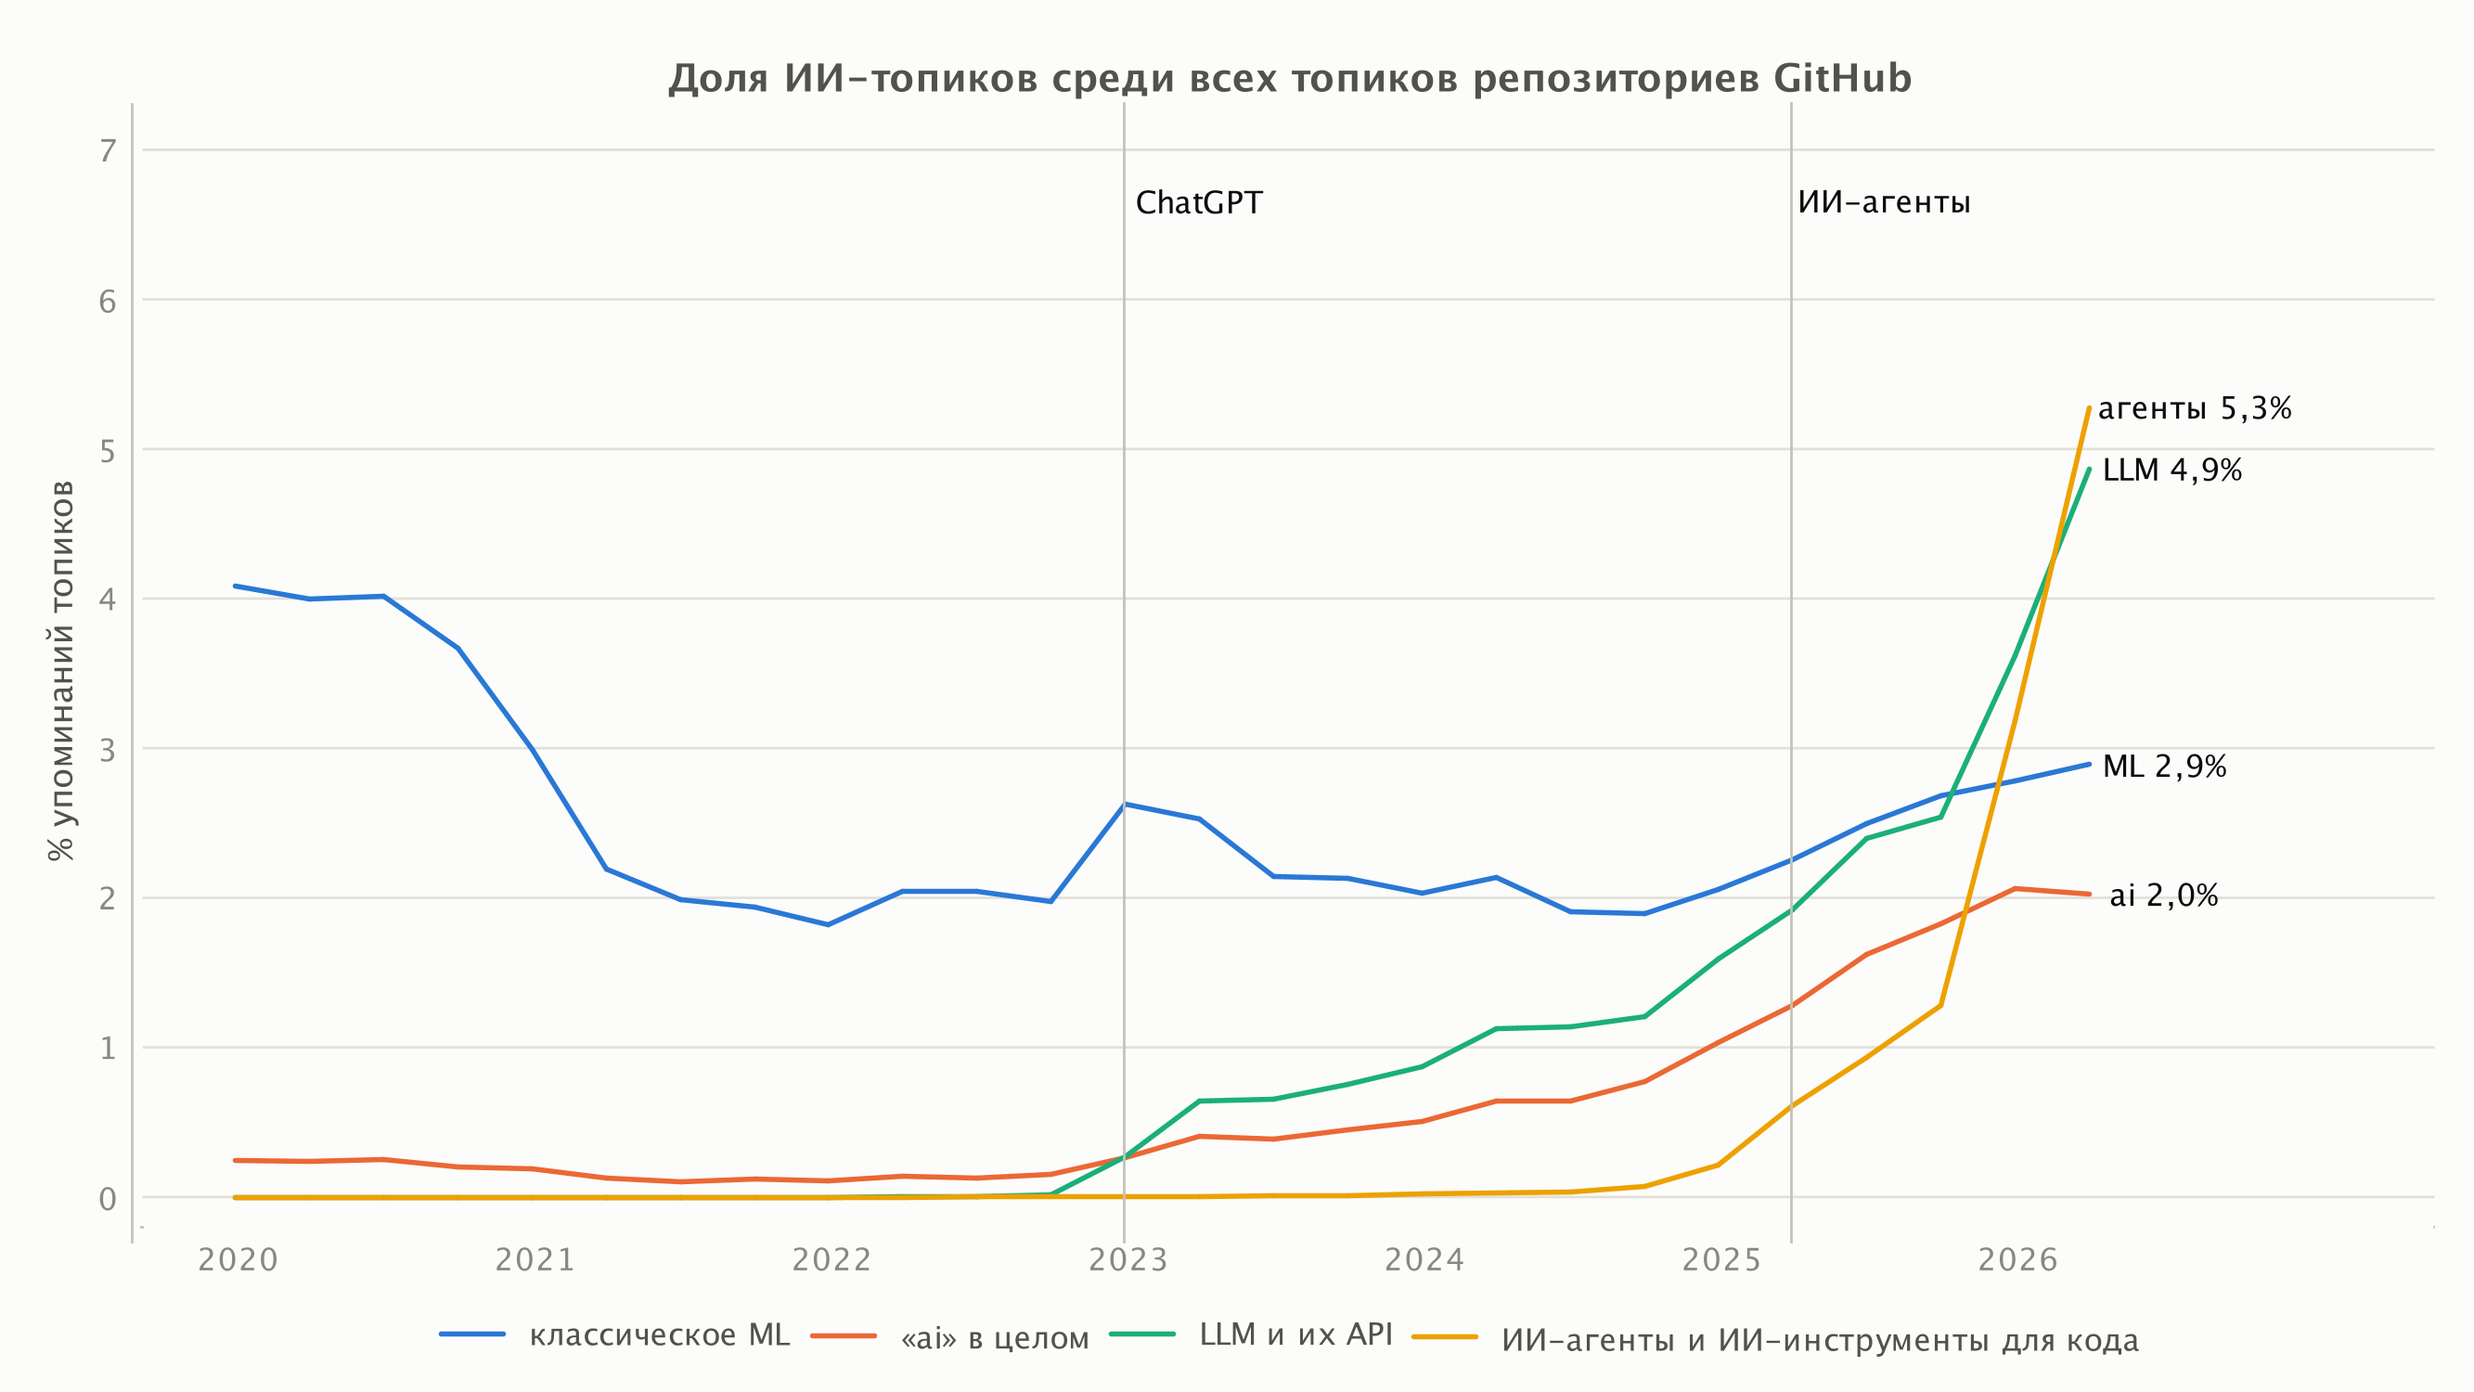
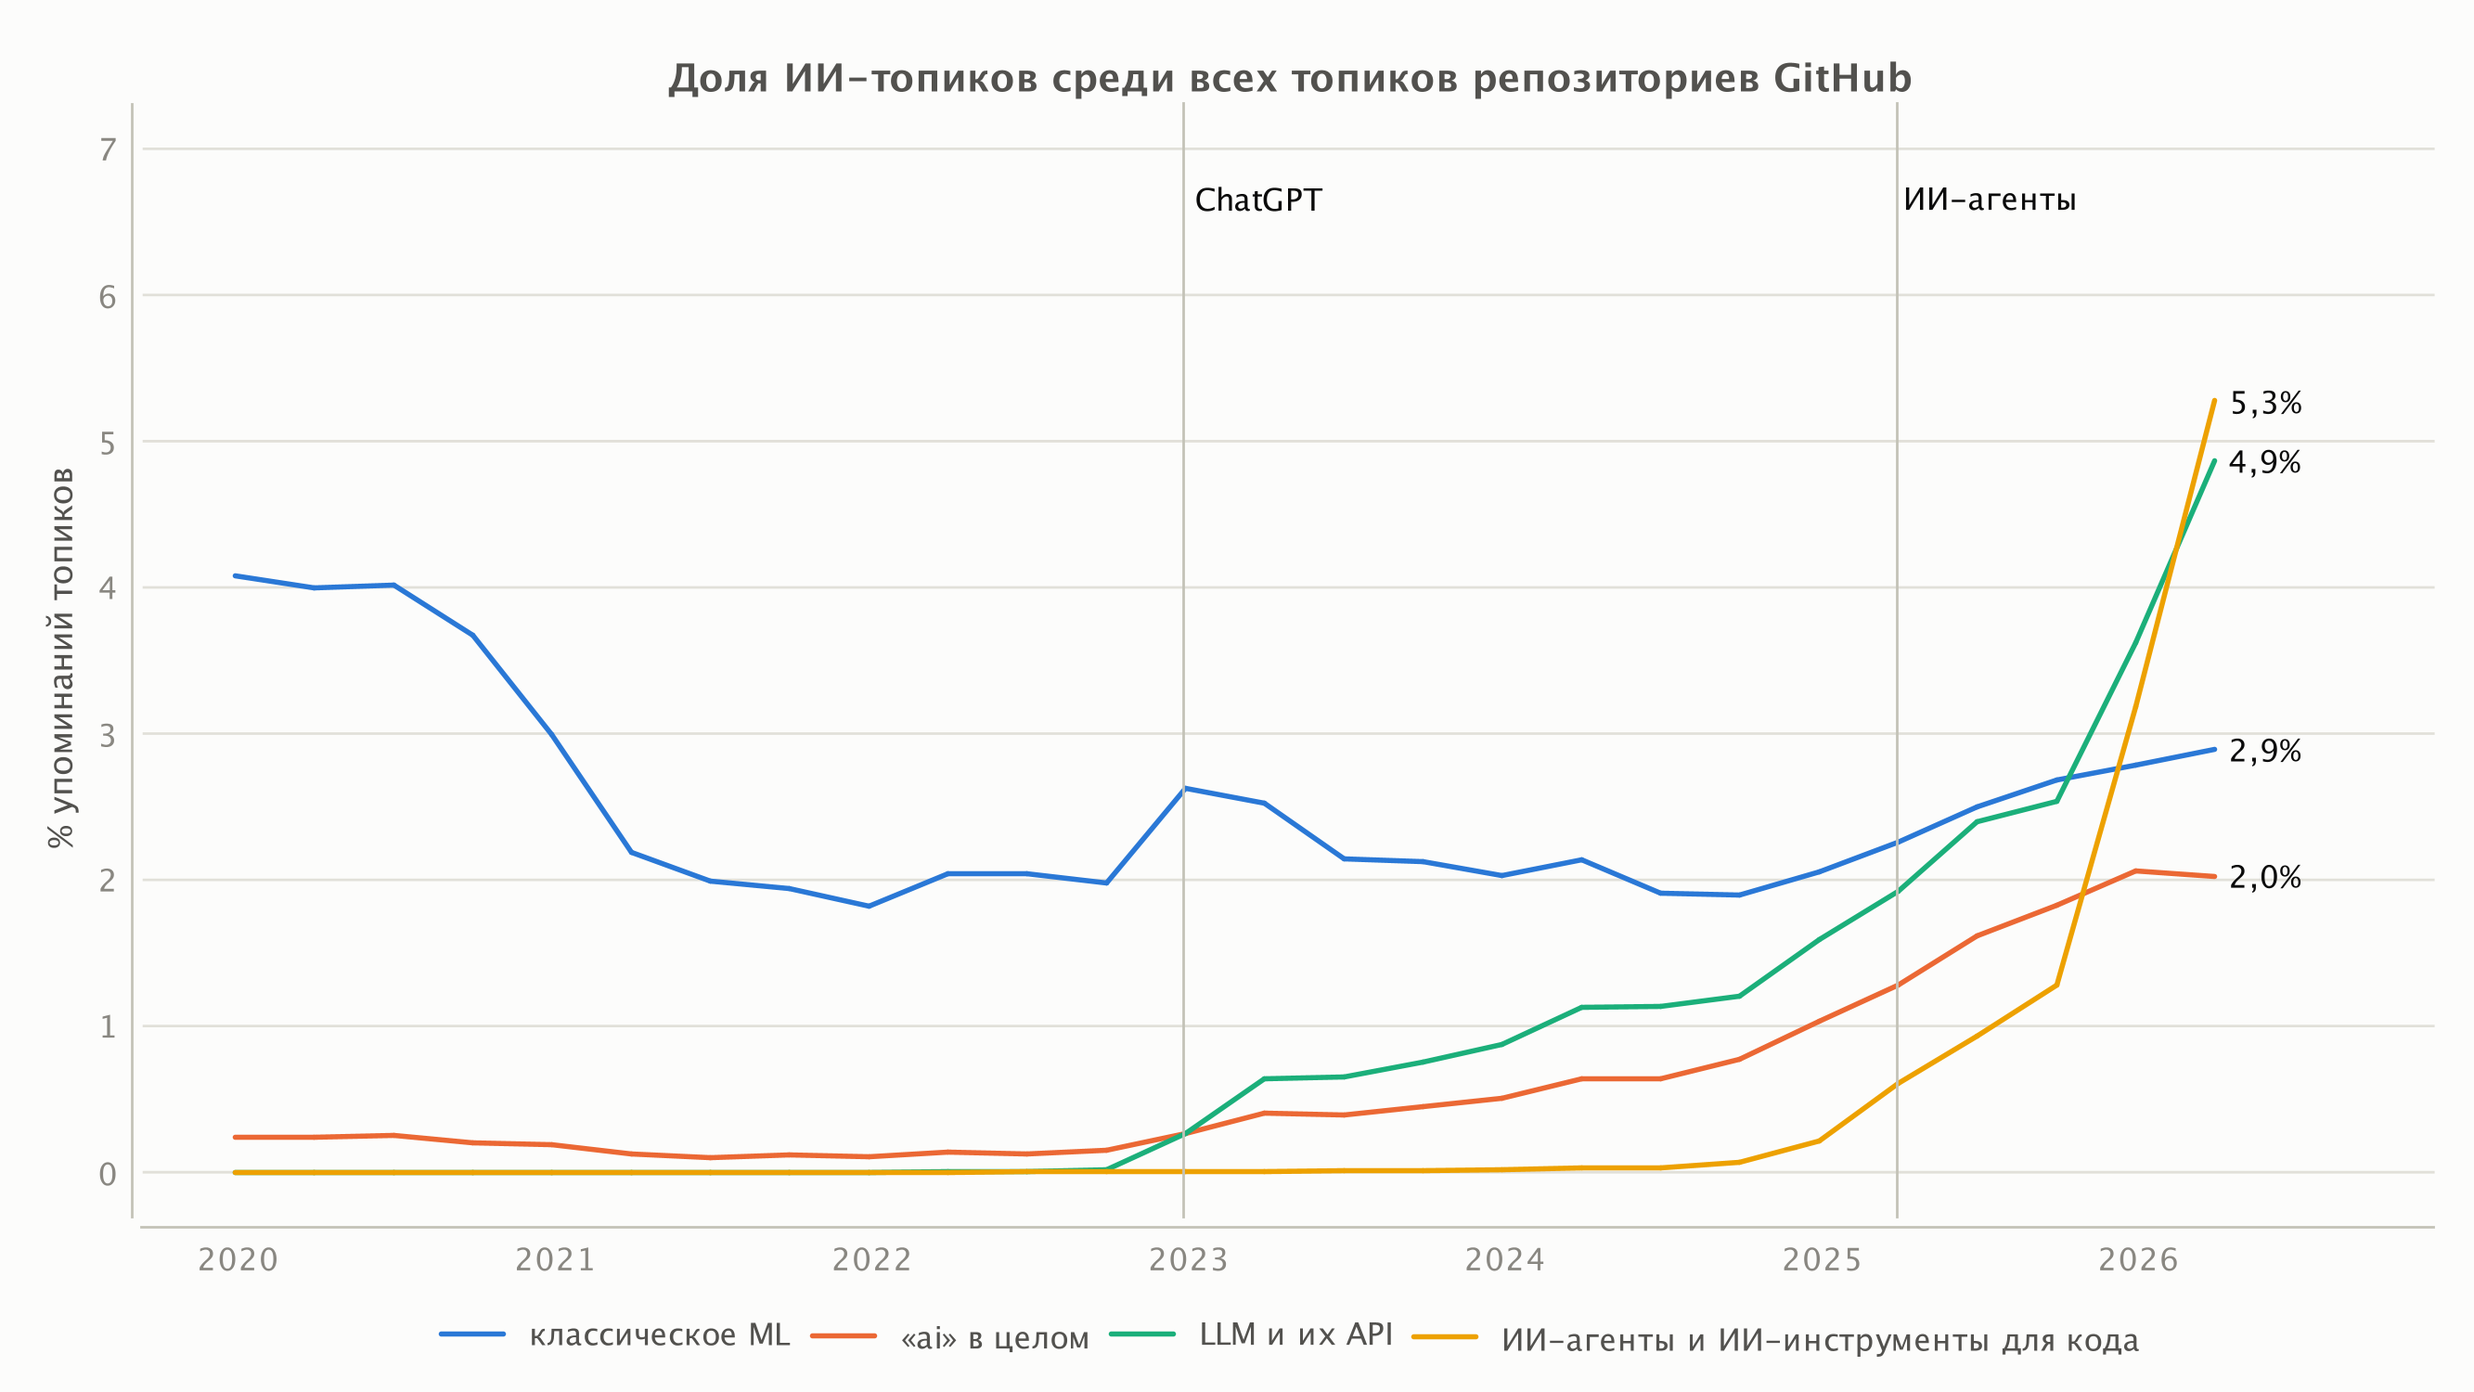
Figures: no custom tick formatter, data-driven scale, net change naming
Review fixes for #25:
- Drop the custom x tick formatter that could make XChart loop forever;
  the axis now ends right after the last quarter, so no empty future year
  is labelled. Line ends carry values, identity stays in the legend.
- The pushes-per-developer scale follows the data instead of a fixed 2.4
  that the next quarterly update would exceed.
- task1_new_developers.png becomes task1_developers_net_change.png,
  titled as net change of developers.
- Event lines use Task1Main's event quarters, the country legend uses
  MIN_COUNTRY_TOPIC_PUSHERS, the by-country title uses the topics' quarter.
- Regions without a Russian name are still drawn and reported instead of
  silently dropped; regions exclude Hong Kong and Singapore (PerCapita).

diff --git a/analytics-java/src/main/java/ru/spbstu/ghanalytics/analytics/task1/Task1Charts.java b/analytics-java/src/main/java/ru/spbstu/ghanalytics/analytics/task1/Task1Charts.java
@@ -17,36 +17,39 @@ import java.util.Locale;
 /** Article figures of task 1, from the tables built by {@link Task1Main}. */
 final class Task1Charts {
 
-    private static final double CHATGPT_X = 2023.0;
-    private static final double CODING_AGENTS_X = 2025.25;
+    private static final double CHATGPT_X = AiActivity.decimalYear(Task1Main.CHATGPT);
+    private static final double CODING_AGENTS_X = AiActivity.decimalYear(Task1Main.CODING_AGENTS);
+    /** Room right of the last quarter for the value labels; small enough that no empty next year gets a tick. */
+    private static final double RIGHT_MARGIN = 0.4;
     private static final double PLOT_WIDTH_PX = 840;
     private static final double CHAR_PX = 6.5;
 
     private Task1Charts() {
     }
 
-    static List<Path> write(Table activity, Table byQuarter, Table byCountry, String lastQuarter, Path dir)
+    /** @param countryQuarter quarter of the by-country topic data */
+    static List<Path> write(Table activity, Table byQuarter, Table byCountry, String countryQuarter, Path dir)
             throws IOException {
         return List.of(
                 Charts.save(aiTopicShare(byQuarter), dir, "task1_ai_topic_share"),
                 Charts.save(pushesPerDeveloper(activity), dir, "task1_pushes_per_developer"),
-                Charts.save(newDevelopers(activity), dir, "task1_new_developers"),
-                Charts.save(aiShareByCountry(byCountry, lastQuarter), dir, "task1_ai_share_by_country"));
+                Charts.save(developersNetChange(activity), dir, "task1_developers_net_change"),
+                Charts.save(aiShareByCountry(byCountry, countryQuarter), dir, "task1_ai_share_by_country"));
     }
 
     /** Quarter as a decimal year: 2023Q1 -> 2023.0, 2025Q2 -> 2025.25. */
     static double x(Row row) {
-        return row.getInt("year") + (row.getInt("quarter") - 1) / 4.0;
+        return AiActivity.decimalYear(AiActivity.quarterLabel(row.getInt("year"), row.getInt("quarter")));
     }
 
     private static XYChart aiTopicShare(Table byQuarter) {
         XYChart chart = Charts.lines("Доля ИИ-топиков среди всех топиков репозиториев GitHub", "", "% упоминаний топиков");
         double[] x = byQuarter.stream().mapToDouble(Task1Charts::x).toArray();
         String[][] groups = {
-                {"classic_ml_share_pct", "классическое ML", "ML"},
-                {"general_ai_share_pct", "«ai» в целом", "ai"},
-                {"llm_share_pct", "LLM и их API", "LLM"},
-                {"agents_share_pct", "ИИ-агенты и ИИ-инструменты для кода", "агенты"}};
+                {"classic_ml_share_pct", "классическое ML"},
+                {"general_ai_share_pct", "«ai» в целом"},
+                {"llm_share_pct", "LLM и их API"},
+                {"agents_share_pct", "ИИ-агенты и ИИ-инструменты для кода"}};
         List<String> labels = new ArrayList<>();
         List<Double> ends = new ArrayList<>();
         double max = 0;
@@ -54,7 +57,7 @@ final class Task1Charts {
             double[] y = byQuarter.doubleColumn(groups[i][0]).asDoubleArray();
             Charts.line(chart, groups[i][1], x, y, i);
             double end = y[y.length - 1];
-            labels.add(groups[i][2] + " " + percent(end));
+            labels.add(percent(end));
             ends.add(end);
             for (double v : y) {
                 max = Math.max(max, v);
@@ -62,8 +65,8 @@ final class Task1Charts {
         }
         double xLast = x[x.length - 1];
         double yMax = Math.ceil(max * 1.15);
-        frame(chart, x[0], xLast + 0.85, yMax);
-        double xPerChar = xPerChar(x[0], xLast + 0.85);
+        frame(chart, x[0], xLast + RIGHT_MARGIN, yMax);
+        double xPerChar = xPerChar(x[0], xLast + RIGHT_MARGIN);
         Charts.event(chart, CHATGPT_X, "ChatGPT", yMax * 0.95, xPerChar);
         Charts.event(chart, CODING_AGENTS_X, "ИИ-агенты", yMax * 0.95, xPerChar);
         Charts.endLabels(chart, xLast, labels, ends, yMax * 0.05, xPerChar);
@@ -77,9 +80,9 @@ final class Task1Charts {
         Charts.line(chart, "пушей на разработчика", x, y, 0);
         chart.getStyler().setLegendVisible(false);
         double xLast = x[x.length - 1];
-        double yMax = 2.4;
-        frame(chart, x[0], xLast + 0.6, yMax);
-        double xPerChar = xPerChar(x[0], xLast + 0.6);
+        double yMax = Math.max(2.0, Math.ceil(java.util.Arrays.stream(y).max().orElse(0) * 1.15 * 10) / 10);
+        frame(chart, x[0], xLast + RIGHT_MARGIN, yMax);
+        double xPerChar = xPerChar(x[0], xLast + RIGHT_MARGIN);
         Charts.event(chart, CHATGPT_X, "ChatGPT", yMax * 0.95, xPerChar);
         Charts.event(chart, CODING_AGENTS_X, "ИИ-агенты", yMax * 0.95, xPerChar);
         Charts.endLabels(chart, xLast, List.of(String.format(Locale.forLanguageTag("ru"), "%.2f", y[y.length - 1])),
@@ -87,17 +90,18 @@ final class Task1Charts {
         return chart;
     }
 
-    private static CategoryChart newDevelopers(Table activity) {
-        CategoryChart chart = Charts.bars("Новые разработчики на GitHub за квартал", "", "млн аккаунтов");
+    /** Net change of the developer stock (not sign-ups), see {@link AiActivity#activity}. */
+    private static CategoryChart developersNetChange(Table activity) {
+        CategoryChart chart = Charts.bars("Прирост числа разработчиков на GitHub за квартал", "", "млн аккаунтов");
         List<String> quarters = new ArrayList<>();
         List<Double> millions = new ArrayList<>();
         for (Row row : activity) {
-            if (!activity.longColumn("new_developers").isMissing(row.getRowNumber())) {
+            if (!activity.longColumn("developers_net_change").isMissing(row.getRowNumber())) {
                 quarters.add(row.getString("quarter_label"));
-                millions.add(row.getLong("new_developers") / 1e6);
+                millions.add(row.getLong("developers_net_change") / 1e6);
             }
         }
-        chart.addSeries("новые разработчики", quarters, millions);
+        chart.addSeries("прирост числа разработчиков", quarters, millions);
         chart.getStyler().setLegendVisible(false);
         chart.getStyler().setXAxisLabelRotation(90);
         chart.getStyler().setYAxisMin(0.0);
@@ -115,7 +119,8 @@ final class Task1Charts {
             others.add(ru ? 0.0 : row.getDouble("ai_share_pct"));
             russia.add(ru ? row.getDouble("ai_share_pct") : 0.0);
         }
-        CategorySeries rest = chart.addSeries("страны с 10 000+ упоминаний топиков", names, others);
+        CategorySeries rest = chart.addSeries(String.format(Locale.forLanguageTag("ru"),
+                "страны с %,d+ упоминаний топиков", AiActivity.MIN_COUNTRY_TOPIC_PUSHERS), names, others);
         rest.setFillColor(Charts.SERIES[0]);
         CategorySeries ru = chart.addSeries("Россия", names, russia);
         ru.setFillColor(Charts.SERIES[1]);
@@ -130,7 +135,7 @@ final class Task1Charts {
         chart.getStyler().setXAxisMax(xMax);
         chart.getStyler().setYAxisMin(0.0);
         chart.getStyler().setYAxisMax(yMax);
-        Charts.yearTicks(chart, (int) Math.floor(xMax - 0.5));
+        chart.getStyler().setXAxisDecimalPattern("0");
     }
 
     private static double xPerChar(double xMin, double xMax) {

diff --git a/analytics-java/src/main/java/ru/spbstu/ghanalytics/analytics/task3/Task3Charts.java b/analytics-java/src/main/java/ru/spbstu/ghanalytics/analytics/task3/Task3Charts.java
@@ -14,13 +14,10 @@ import java.util.ArrayList;
 import java.util.LinkedHashMap;
 import java.util.List;
 import java.util.Map;
-import java.util.Set;
+import java.util.TreeSet;
 
 /** Article figures of task 3, from the tables built by {@link Task3Main}. */
 final class Task3Charts {
-
-    /** Countries whose value mostly reflects IP geolocation (VPN exits, regional offices), see README. */
-    static final Set<String> IP_INFLATED = Set.of("HK", "SG");
 
     private static final Map<String, String> REGIONS = new LinkedHashMap<>();
 
@@ -68,7 +65,7 @@ final class Task3Charts {
             if (names.size() == n) {
                 break;
             }
-            if (!IP_INFLATED.contains(row.getString("country_code"))) {
+            if (!PerCapita.IP_INFLATED.contains(row.getString("country_code"))) {
                 names.add(Charts.countryName(row.getString("country_code"), row.getString("name")));
                 values.add(row.getDouble("developers_per_1000"));
             }
@@ -81,10 +78,25 @@ final class Task3Charts {
         return chart;
     }
 
+    /**
+     * Known regions keep their fixed color slot; a region the World Bank renamed or added is still drawn, under
+     * its English name in the next free slot, and reported, so a line never silently disappears.
+     */
     private static XYChart regions(Table regions) {
-        XYChart chart = Charts.lines("Разработчики GitHub на 1000 жителей по регионам", "", "разработчиков на 1000 жителей");
+        XYChart chart = Charts.lines("Разработчики GitHub на 1000 жителей по регионам (без Гонконга и Сингапура)",
+                "", "разработчиков на 1000 жителей");
+        Map<String, String> names = new LinkedHashMap<>(REGIONS);
+        for (String region : new TreeSet<>(regions.stringColumn("region").asSet())) {
+            if (!names.containsKey(region)) {
+                System.err.println("Task 3 chart: World Bank region '" + region + "' has no Russian name in Task3Charts");
+                names.put(region, region);
+            }
+        }
+        if (names.size() > Charts.SERIES.length) {
+            throw new IllegalStateException(names.size() + " regions, only " + Charts.SERIES.length + " colors");
+        }
         int slot = 0;
-        for (Map.Entry<String, String> region : REGIONS.entrySet()) {
+        for (Map.Entry<String, String> region : names.entrySet()) {
             Table r = regions.where(regions.stringColumn("region").isEqualTo(region.getKey())).sortAscendingOn("year");
             if (!r.isEmpty()) {
                 Charts.line(chart, region.getValue(), years(r), r.doubleColumn("developers_per_1000").asDoubleArray(), slot);

diff --git a/analytics-java/src/main/java/ru/spbstu/ghanalytics/analytics/Charts.java b/analytics-java/src/main/java/ru/spbstu/ghanalytics/analytics/Charts.java
@@ -146,17 +146,6 @@ public final class Charts {
         return COUNTRY_NAMES.getOrDefault(code, fallback);
     }
 
-    /**
-     * Year ticks only up to {@code lastYear}: the axis keeps room for end labels but shows no empty future year.
-     * XChart thins ticks until all labels differ, so ticks past {@code lastYear} get distinct blank labels
-     * (a shared empty label makes it loop forever).
-     */
-    public static void yearTicks(XYChart chart, int lastYear) {
-        chart.setCustomXAxisTickLabelsFormatter(x -> x > lastYear + 0.5
-                ? " ".repeat((int) Math.round((x - lastYear) * 4))
-                : String.valueOf(Math.round(x)));
-    }
-
     private static void style(AxesChartStyler s) {
         s.setChartBackgroundColor(SURFACE);
         s.setPlotBackgroundColor(SURFACE);

diff --git a/analytics-java/src/main/java/ru/spbstu/ghanalytics/analytics/task1/Task1Main.java b/analytics-java/src/main/java/ru/spbstu/ghanalytics/analytics/task1/Task1Main.java
@@ -67,7 +67,7 @@ public final class Task1Main {
         byCountry.write().csv(out.resolve("ai_topics_by_country_" + countryQuarter + ".csv").toFile());
         regressions.write().csv(out.resolve("event_regressions.csv").toFile());
         topicGroups().write().csv(out.resolve("ai_topic_groups.csv").toFile());
-        List<Path> charts = Task1Charts.write(activity, byQuarter, byCountry, last, figures);
+        List<Path> charts = Task1Charts.write(activity, byQuarter, byCountry, countryQuarter, figures);
 
         System.out.printf("Task 1: %s..%s, %d quarters; CSV written to %s%n",
                 first, last, activity.rowCount(), out.toAbsolutePath());
